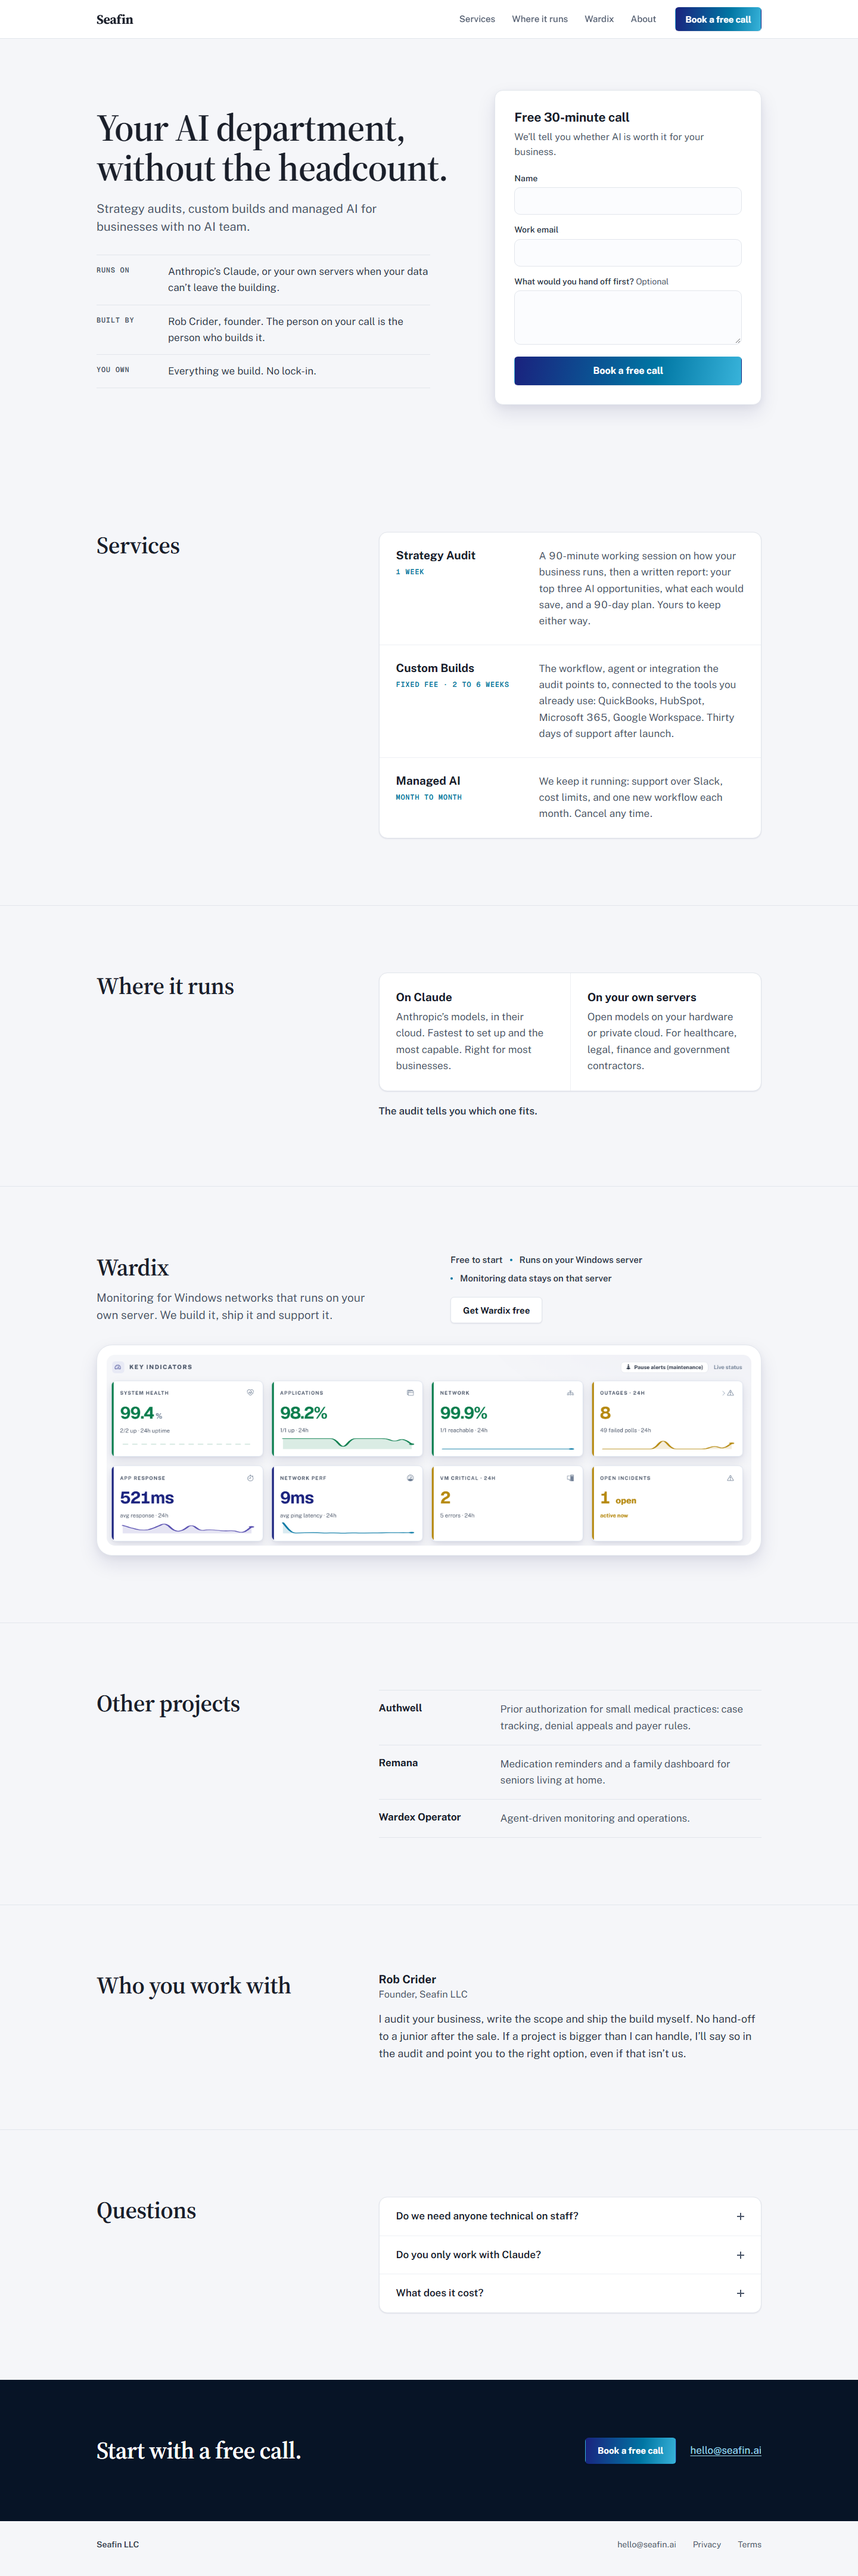
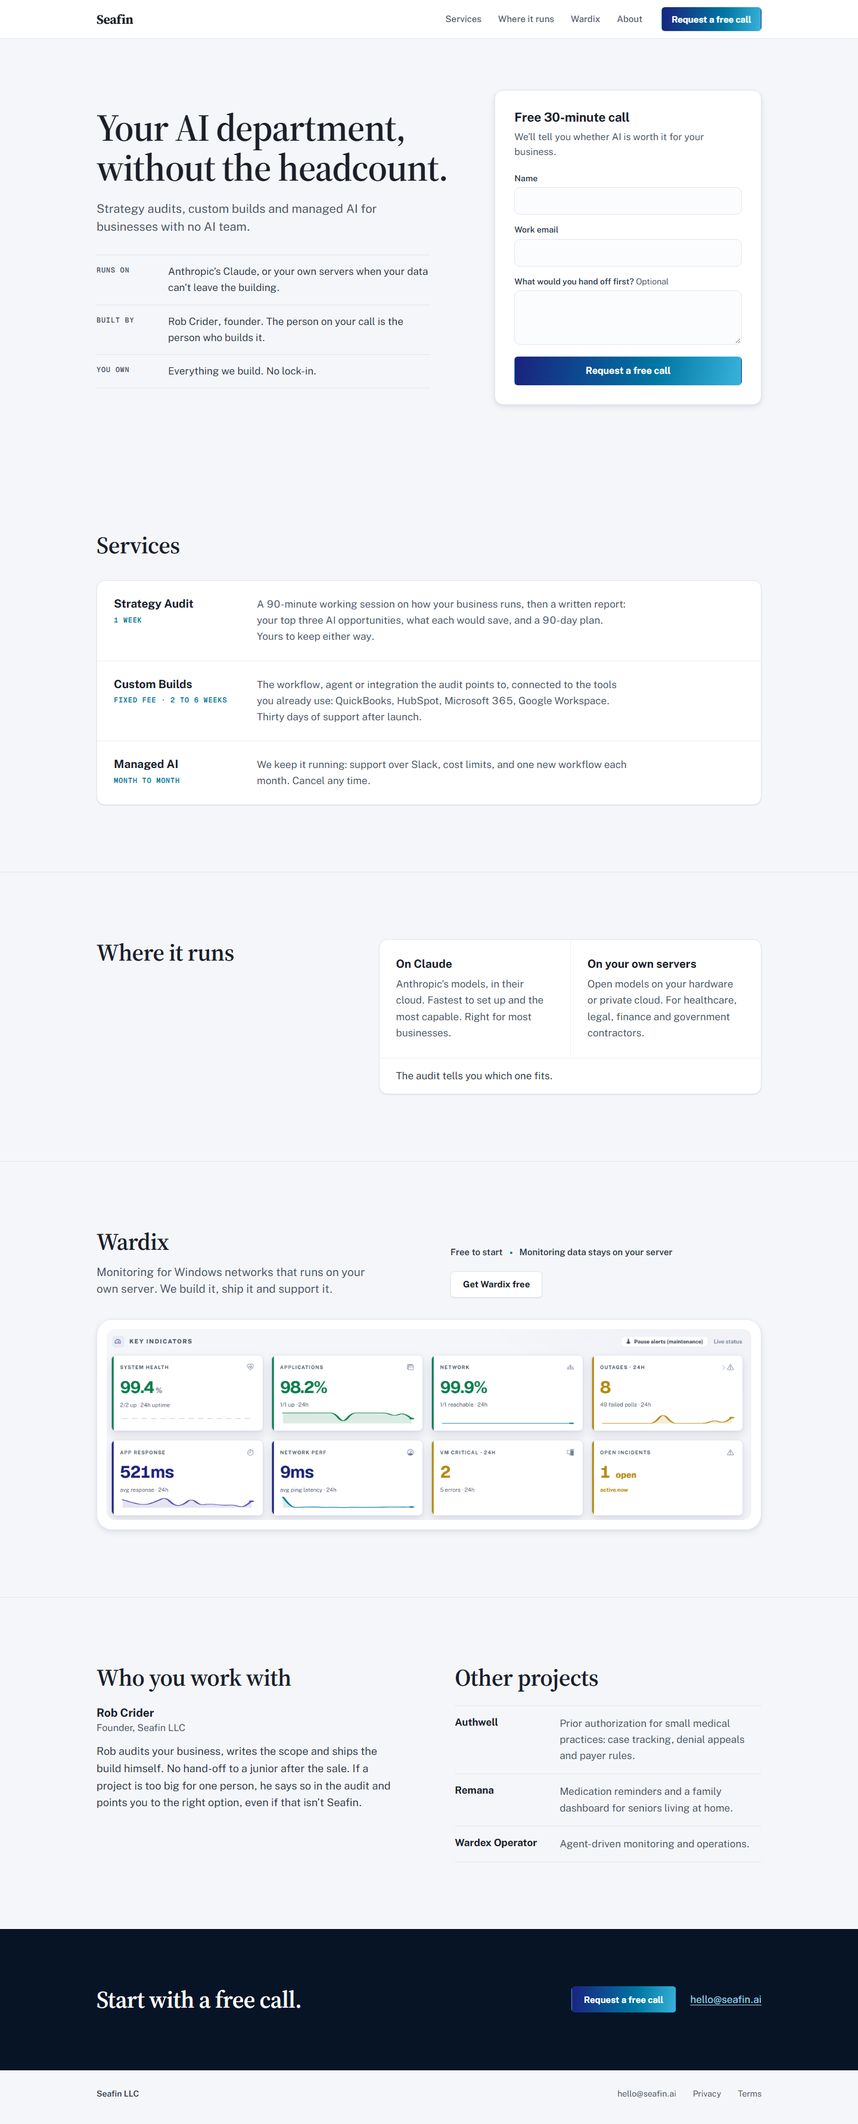
fix(seafin-site): apply finish-review fixes on the Wardix-system homepage
Quieter panel elevation, varied section layouts (stacked services, combined
about + other projects), FAQ removed, legible two-tile phone screenshot,
de-duplicated Wardix facts, audit line inside its panel, 'Request a free
call' wording, single company voice, two-line phone H1, dark-mode tokens
for hover borders and errors.

diff --git a/seafin-site/home.css b/seafin-site/home.css
@@ -38,13 +38,15 @@
   --brand-gradient: linear-gradient(100deg, var(--tracelet-indigo) 0%, var(--tracelet-teal) 62%, var(--tracelet-teal-soft) 100%);
   --maxw: 1180px;
   --gutter: clamp(16px, 4vw, 32px);
+  --line-strong: #cbd2dc;
+  --danger: #b50909;
   color-scheme: light;
 }
 
 @media (prefers-color-scheme: dark) {
   :root {
     --ink-900: #e9ecf6; --ink-700: #cdd3e6; --ink-500: #9aa3c0;
-    --line: #262c44; --line-soft: #1e2438;
+    --line: #262c44; --line-soft: #1e2438; --line-strong: #3a4466; --danger: #ff8a80;
     --bg: #0b0e1a; --paper: #121732; --paper-2: #0f1430;
     --tracelet-indigo-tint: #1b2150; --tracelet-teal-tint: #0c2c3a;
     --tracelet-teal: #38b3da;
@@ -90,7 +92,7 @@ h1, h2, h3 { margin: 0; color: var(--ink-900); }
 .btn-primary:active { transform: translateY(1px); filter: brightness(0.96); }
 .btn-primary:disabled { cursor: progress; filter: saturate(0.6) brightness(1.1); }
 .btn-secondary { color: var(--ink-900); background: var(--paper); border-color: var(--line); box-shadow: var(--shadow-1); }
-.btn-secondary:hover { color: var(--ink-900); border-color: #cbd2dc; box-shadow: var(--shadow-2); }
+.btn-secondary:hover { color: var(--ink-900); border-color: var(--line-strong); box-shadow: var(--shadow-2); }
 
 /* ---------- nav ---------- */
 .nav { position: sticky; top: 0; z-index: 10; background: color-mix(in srgb, var(--paper) 94%, transparent); backdrop-filter: blur(10px); border-bottom: 1px solid var(--line); }
@@ -120,7 +122,7 @@ h1, h2, h3 { margin: 0; color: var(--ink-900); }
 /* the form panel: the one action */
 .book {
   background: var(--paper); border: 1px solid var(--line); border-radius: var(--r-panel);
-  box-shadow: var(--shadow-3); padding: clamp(22px, 2.4vw, 32px);
+  box-shadow: var(--shadow-2); padding: clamp(22px, 2.4vw, 32px);
   transition: border-color 400ms ease-out, box-shadow 400ms ease-out;
 }
 .book h2 { font: 700 1.3125rem/1.25 var(--font-sans); letter-spacing: -0.01em; }
@@ -135,14 +137,14 @@ h1, h2, h3 { margin: 0; color: var(--ink-900); }
 }
 .book input { min-height: 46px; }
 .book textarea { min-height: 84px; resize: vertical; }
-.book input:hover, .book textarea:hover { border-color: #cbd2dc; }
+.book input:hover, .book textarea:hover { border-color: var(--line-strong); }
 .book input:focus-visible, .book textarea:focus-visible { outline: none; border-color: var(--tracelet-teal); box-shadow: 0 0 0 3px var(--tracelet-teal-tint); }
 .book .btn { width: 100%; min-height: 48px; font-size: 1rem; margin-top: 4px; }
 .hp { position: absolute; left: -9999px; width: 1px; height: 1px; opacity: 0; }
 .status { font-size: 0.9375rem; color: var(--ink-700); }
 .status:empty { display: none; }
-.status.is-error { color: #b50909; }
-.book.is-sent { border-color: var(--tracelet-teal); box-shadow: 0 0 0 3px var(--tracelet-teal-tint), var(--shadow-3); }
+.status.is-error { color: var(--danger); }
+.book.is-sent { border-color: var(--tracelet-teal); box-shadow: 0 0 0 3px var(--tracelet-teal-tint), var(--shadow-2); }
 .book.is-sent .status { font: 600 1.0625rem/1.4 var(--font-sans); color: var(--ink-900); animation: settle 420ms cubic-bezier(0.16, 1, 0.3, 1) both; }
 @keyframes settle { from { opacity: 0; transform: translateY(4px); } to { opacity: 1; transform: none; } }
 
@@ -150,6 +152,7 @@ h1, h2, h3 { margin: 0; color: var(--ink-900); }
 .section { padding-block: clamp(64px, 8vw, 112px); }
 .section + .section { border-top: 1px solid var(--line); }
 .section h2 { font: 600 clamp(1.875rem, 3vw, 2.5rem)/1.12 var(--font-serif); letter-spacing: -0.015em; }
+.stack > h2 { margin-bottom: clamp(24px, 3vw, 36px); }
 .head-row { display: grid; grid-template-columns: minmax(0, 1fr) minmax(0, 1.6fr); gap: 24px clamp(32px, 5vw, 72px); align-items: start; }
 
 .panel { background: var(--paper); border: 1px solid var(--line); border-radius: var(--r-panel); box-shadow: var(--shadow-1); }
@@ -168,7 +171,7 @@ h1, h2, h3 { margin: 0; color: var(--ink-900); }
 .compare > div + div { border-left: 1px solid var(--line-soft); }
 .compare h3 { font: 700 1.1875rem/1.3 var(--font-sans); margin-bottom: 8px; }
 .compare p { color: var(--ink-500); }
-.fit { margin-top: 20px; font-weight: 600; color: var(--ink-700); }
+.compare .fit { grid-column: 1 / -1; margin: 0; padding: 16px 28px; border-top: 1px solid var(--line-soft); color: var(--ink-700); }
 
 /* wardix: product proof */
 .product-top { display: grid; grid-template-columns: minmax(0, 1fr) minmax(0, 1fr); gap: 20px clamp(32px, 5vw, 72px); align-items: end; }
@@ -178,13 +181,17 @@ h1, h2, h3 { margin: 0; color: var(--ink-900); }
 .chips li + li::before { content: ""; width: 4px; height: 4px; border-radius: 50%; background: var(--tracelet-teal); }
 .shot {
   margin: 36px 0 0; padding: clamp(10px, 1.2vw, 16px);
-  background: var(--paper); border: 1px solid var(--line); border-radius: var(--r-media); box-shadow: var(--shadow-3);
+  background: var(--paper); border: 1px solid var(--line); border-radius: var(--r-media); box-shadow: var(--shadow-2);
 }
 .shot img { width: 100%; border-radius: calc(var(--r-media) - 12px); }
 
+/* who you work with + other projects: one section, two columns */
+.duo { display: grid; grid-template-columns: minmax(0, 1fr) minmax(0, 1fr); gap: 48px clamp(40px, 6vw, 96px); align-items: start; }
+.duo h2 { margin-bottom: 24px; }
+
 /* other projects */
-.projects { margin: 0; padding: 0; list-style: none; max-width: 760px; }
-.projects li { display: grid; grid-template-columns: minmax(0, 11rem) minmax(0, 1fr); gap: 4px 28px; padding-block: 18px; border-top: 1px solid var(--line); }
+.projects { margin: 0; padding: 0; list-style: none; }
+.projects li { display: grid; grid-template-columns: minmax(0, 9.5rem) minmax(0, 1fr); gap: 4px 24px; padding-block: 16px; border-top: 1px solid var(--line); }
 .projects li:last-child { border-bottom: 1px solid var(--line); }
 .projects h3 { font: 700 1.0625rem/1.4 var(--font-sans); }
 .projects p { color: var(--ink-500); }
@@ -192,22 +199,7 @@ h1, h2, h3 { margin: 0; color: var(--ink-900); }
 /* about */
 .person { font: 700 1.1875rem/1.3 var(--font-sans); }
 .person span { display: block; margin-top: 2px; font: 400 1rem/1.4 var(--font-sans); color: var(--ink-500); }
-.about-text { margin-top: 16px; max-width: 62ch; color: var(--ink-700); font-size: 1.125rem; line-height: 1.6; }
-
-/* questions */
-.qa details + details { border-top: 1px solid var(--line-soft); }
-.qa summary {
-  display: flex; justify-content: space-between; align-items: center; gap: 24px;
-  padding: 20px 28px; cursor: pointer; list-style: none; font: 600 1.0625rem/1.4 var(--font-sans); color: var(--ink-900);
-}
-.qa summary::-webkit-details-marker { display: none; }
-.qa summary::after {
-  content: ""; flex: none; width: 12px; height: 12px;
-  background: linear-gradient(currentColor, currentColor) center / 12px 2px no-repeat, linear-gradient(currentColor, currentColor) center / 2px 12px no-repeat;
-  color: var(--ink-500); transition: transform 200ms ease-out;
-}
-.qa details[open] summary::after { transform: rotate(45deg); }
-.qa details p { padding: 0 28px 22px; max-width: 64ch; color: var(--ink-500); }
+.about-text { margin-top: 14px; max-width: 54ch; color: var(--ink-700); font-size: 1.125rem; line-height: 1.6; }
 
 /* closing band */
 .close { background: var(--bastion); color: #e9ecf6; }
@@ -226,8 +218,8 @@ h1, h2, h3 { margin: 0; color: var(--ink-900); }
 
 /* ---------- responsive ---------- */
 @media (max-width: 960px) {
-  .hero .wrap, .head-row, .product-top { grid-template-columns: 1fr; }
-  .hero h1 { max-width: 18ch; }
+  .hero .wrap, .head-row, .product-top, .duo { grid-template-columns: 1fr; }
+  .hero h1 { max-width: none; }
 }
 @media (max-width: 760px) {
   .nav ul { display: none; }
@@ -235,10 +227,14 @@ h1, h2, h3 { margin: 0; color: var(--ink-900); }
   .compare { grid-template-columns: 1fr; }
   .compare > div + div { border-left: 0; border-top: 1px solid var(--line-soft); }
   .offers li, .projects li { grid-template-columns: 1fr; }
-  .offers li, .compare > div, .qa summary { padding-inline: 20px; }
-  .qa details p { padding-inline: 20px; }
+  .offers li, .compare > div, .compare .fit { padding-inline: 20px; }
+}
+@media (max-width: 560px) {
+  .chips { flex-direction: column; gap: 4px; }
+  .chips li + li::before { display: none; }
 }
 @media (max-width: 480px) {
+  .hero h1 { font-size: 2rem; line-height: 1.1; }
   .facts > div { grid-template-columns: 1fr; gap: 2px; }
   .close .actions { width: 100%; }
   .close .btn { width: 100%; }

diff --git a/seafin-site/index.html b/seafin-site/index.html
@@ -28,7 +28,7 @@
         <li><a href="#about">About</a></li>
       </ul>
     </nav>
-    <a class="btn btn-primary" href="#book">Book a free call</a>
+    <a class="btn btn-primary" href="#book">Request a free call</a>
   </div>
 </header>
 
@@ -53,7 +53,7 @@
           <label>Work email<input name="email" type="email" autocomplete="email" maxlength="200" required></label>
           <label><span>What would you hand off first? <span class="opt">Optional</span></span><textarea name="message" rows="3" maxlength="500"></textarea></label>
           <input class="hp" name="company_website" tabindex="-1" autocomplete="off" aria-hidden="true">
-          <button class="btn btn-primary" type="submit">Book a free call</button>
+          <button class="btn btn-primary" type="submit">Request a free call</button>
           <p class="status" role="status" aria-live="polite"></p>
         </form>
       </div>
@@ -61,7 +61,7 @@
   </section>
 
   <section class="section" id="services" aria-labelledby="services-title">
-    <div class="wrap head-row">
+    <div class="wrap stack">
       <h2 id="services-title">Services</h2>
       <ul class="offers panel">
         <li>
@@ -93,8 +93,8 @@
             <h3>On your own servers</h3>
             <p>Open models on your hardware or private cloud. For healthcare, legal, finance and government contractors.</p>
           </div>
+          <p class="fit">The audit tells you which one fits.</p>
         </div>
-        <p class="fit">The audit tells you which one fits.</p>
       </div>
     </div>
   </section>
@@ -109,15 +109,14 @@
         <div>
           <ul class="chips">
             <li>Free to start</li>
-            <li>Runs on your Windows server</li>
-            <li>Monitoring data stays on that server</li>
+            <li>Monitoring data stays on your server</li>
           </ul>
           <a class="btn btn-secondary" href="https://tracelet.seafin.ai">Get Wardix free</a>
         </div>
       </div>
       <figure class="shot">
         <picture>
-          <source media="(max-width: 560px)" srcset="assets/wardix-dashboard-mobile.png" width="678" height="356">
+          <source media="(max-width: 560px)" srcset="assets/wardix-dashboard-mobile.png" width="336" height="372">
           <img src="assets/wardix-dashboard.png" width="1392" height="412" loading="lazy"
                alt="Wardix dashboard: system health, applications, network, outages, response times and open incidents for the last 24 hours.">
         </picture>
@@ -125,43 +124,20 @@
     </div>
   </section>
 
-  <section class="section" id="projects" aria-labelledby="projects-title">
-    <div class="wrap head-row">
-      <h2 id="projects-title">Other projects</h2>
-      <ul class="projects">
-        <li><h3>Authwell</h3><p>Prior authorization for small medical practices: case tracking, denial appeals and payer rules.</p></li>
-        <li><h3>Remana</h3><p>Medication reminders and a family dashboard for seniors living at home.</p></li>
-        <li><h3>Wardex Operator</h3><p>Agent-driven monitoring and operations.</p></li>
-      </ul>
-    </div>
-  </section>
-
   <section class="section" id="about" aria-labelledby="about-title">
-    <div class="wrap head-row">
-      <h2 id="about-title">Who you work with</h2>
+    <div class="wrap duo">
       <div>
+        <h2 id="about-title">Who you work with</h2>
         <p class="person">Rob Crider <span>Founder, Seafin LLC</span></p>
-        <p class="about-text">I audit your business, write the scope and ship the build myself. No hand-off to a junior after the sale. If a project is bigger than I can handle, I&rsquo;ll say so in the audit and point you to the right option, even if that isn&rsquo;t us.</p>
+        <p class="about-text">Rob audits your business, writes the scope and ships the build himself. No hand-off to a junior after the sale. If a project is too big for one person, he says so in the audit and points you to the right option, even if that isn&rsquo;t Seafin.</p>
       </div>
-    </div>
-  </section>
-
-  <section class="section" id="questions" aria-labelledby="questions-title">
-    <div class="wrap head-row">
-      <h2 id="questions-title">Questions</h2>
-      <div class="qa panel">
-        <details>
-          <summary>Do we need anyone technical on staff?</summary>
-          <p>No. We set it up, train your team, and keep it running if you want us to.</p>
-        </details>
-        <details>
-          <summary>Do you only work with Claude?</summary>
-          <p>Mostly. We also work with ChatGPT, Gemini and open models when the job calls for it.</p>
-        </details>
-        <details>
-          <summary>What does it cost?</summary>
-          <p>It depends on scope. The audit and every build are fixed price, agreed before we start. You&rsquo;ll have a number after the first call.</p>
-        </details>
+      <div id="projects">
+        <h2 id="projects-title">Other projects</h2>
+        <ul class="projects">
+          <li><h3>Authwell</h3><p>Prior authorization for small medical practices: case tracking, denial appeals and payer rules.</p></li>
+          <li><h3>Remana</h3><p>Medication reminders and a family dashboard for seniors living at home.</p></li>
+          <li><h3>Wardex Operator</h3><p>Agent-driven monitoring and operations.</p></li>
+        </ul>
       </div>
     </div>
   </section>
@@ -171,7 +147,7 @@
   <div class="wrap">
     <h2 id="close-title">Start with a free call.</h2>
     <div class="actions">
-      <a class="btn btn-primary" href="#book">Book a free call</a>
+      <a class="btn btn-primary" href="#book">Request a free call</a>
       <a class="mail" href="mailto:hello@seafin.ai">hello@seafin.ai</a>
     </div>
   </div>
